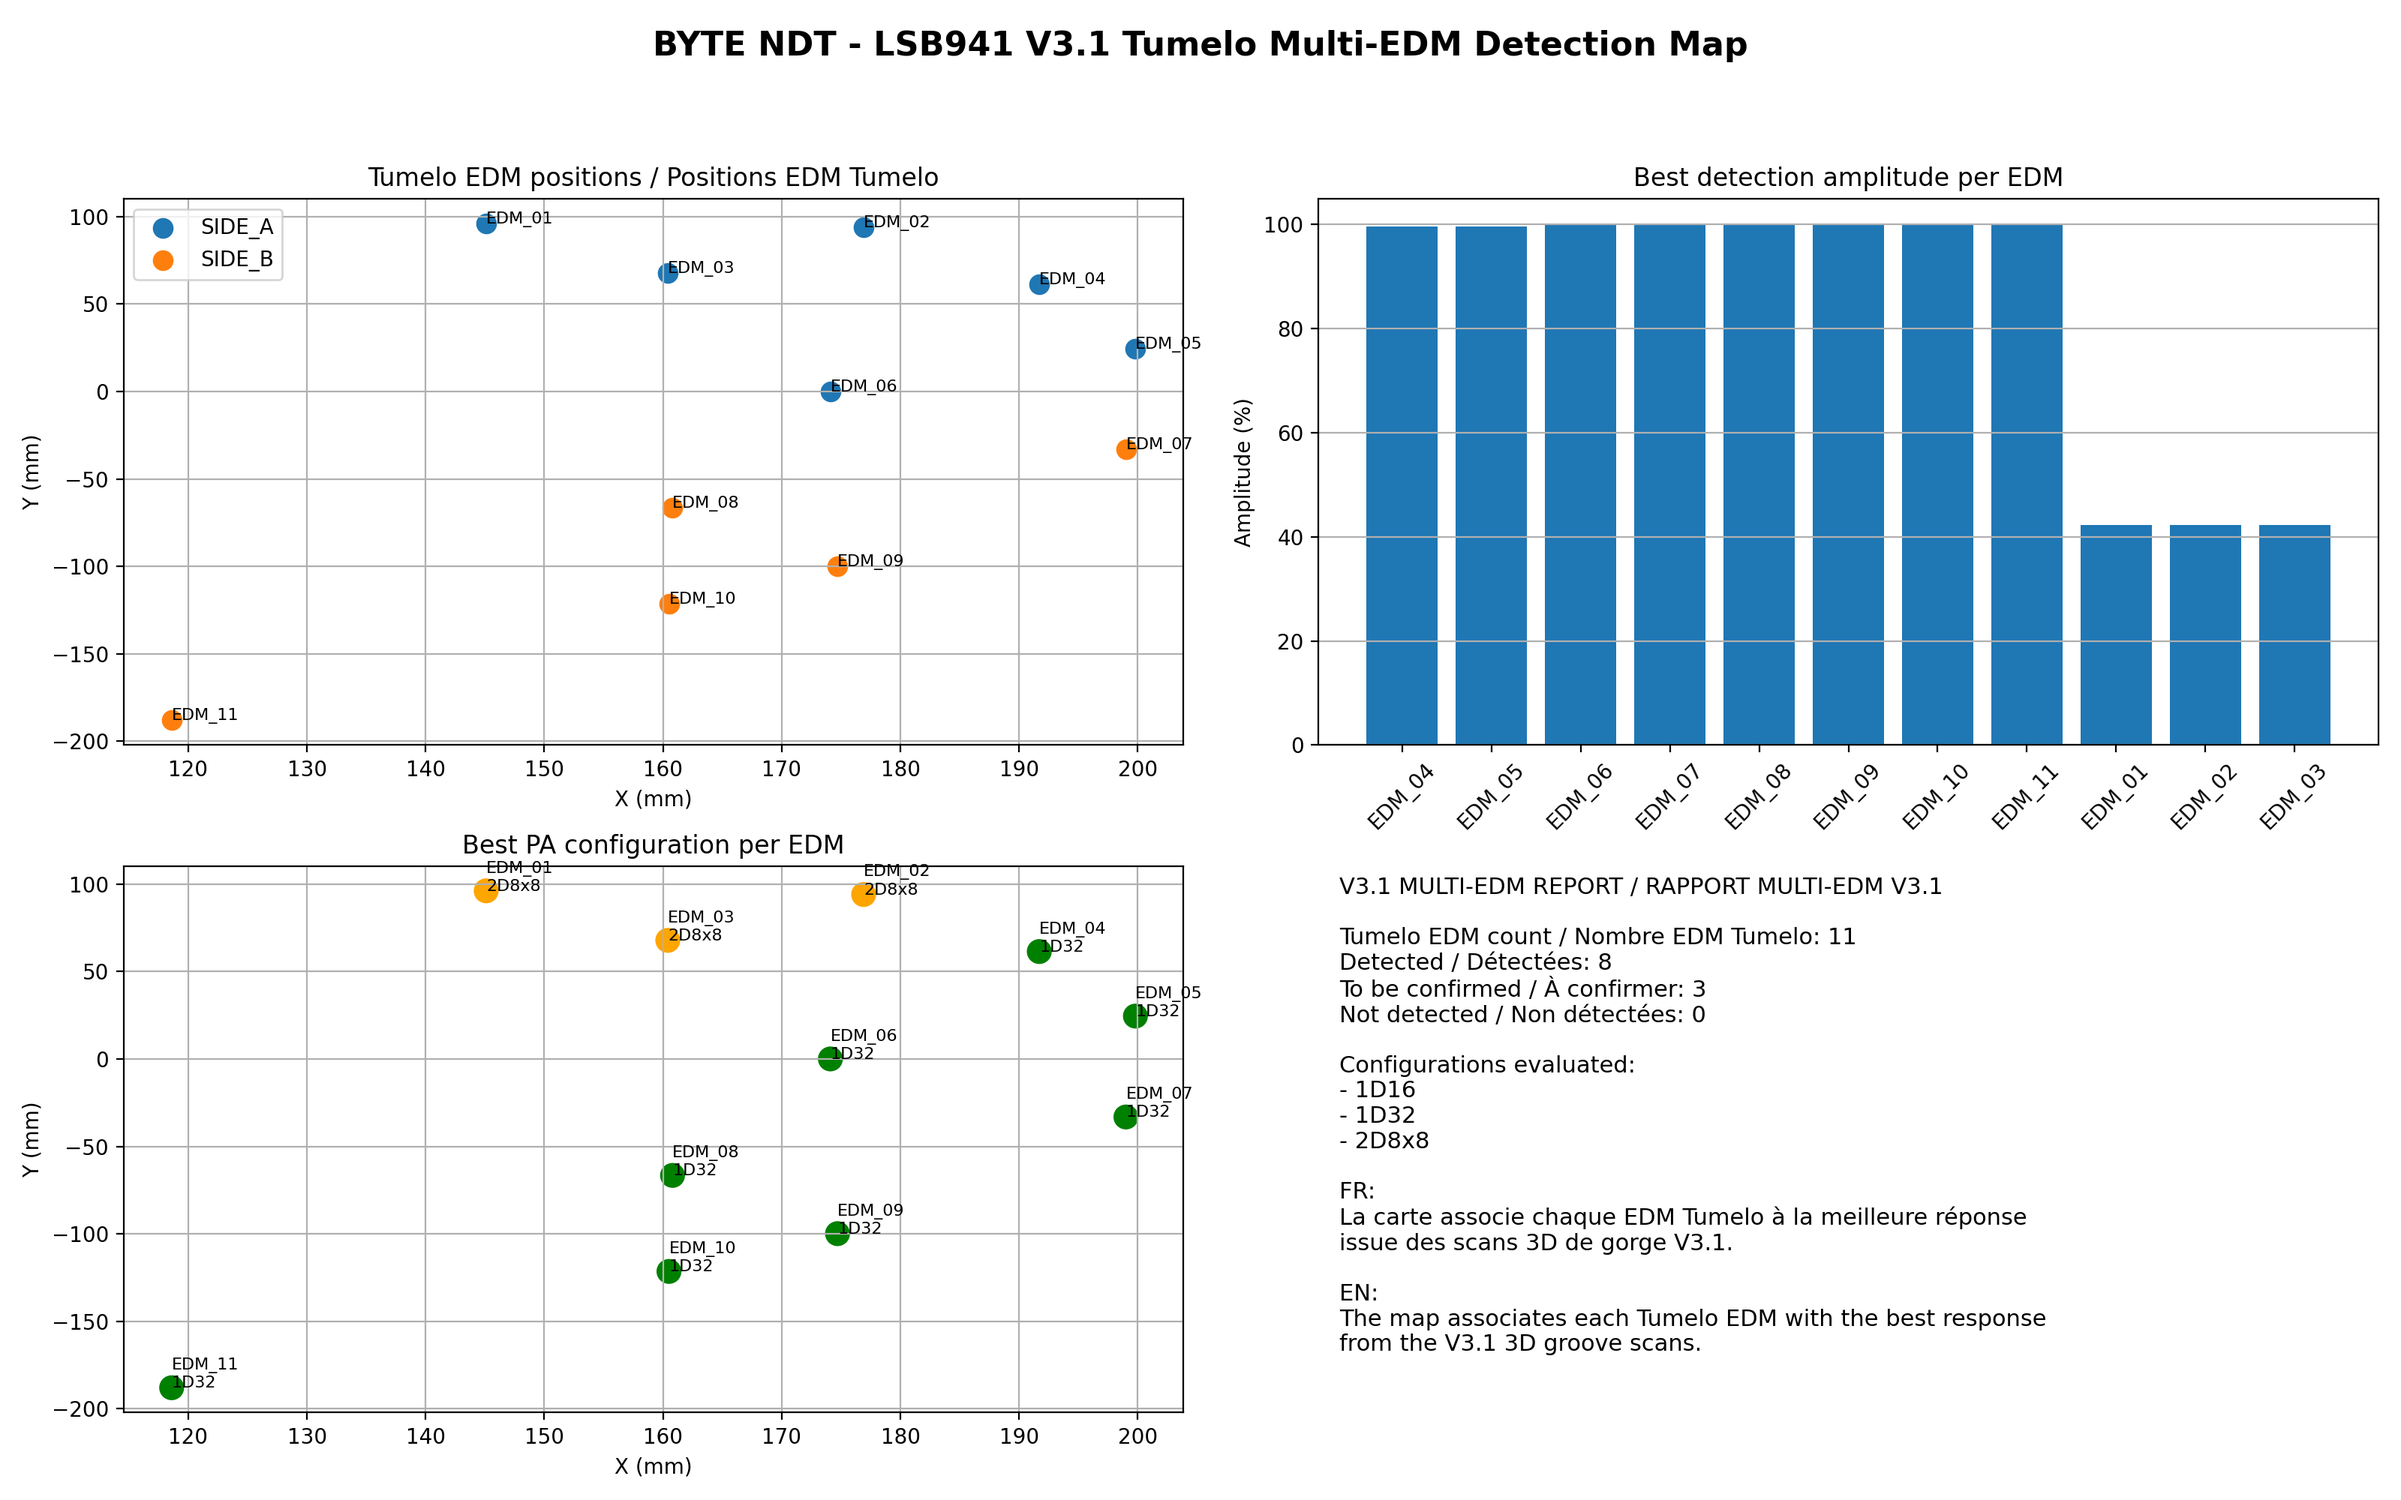
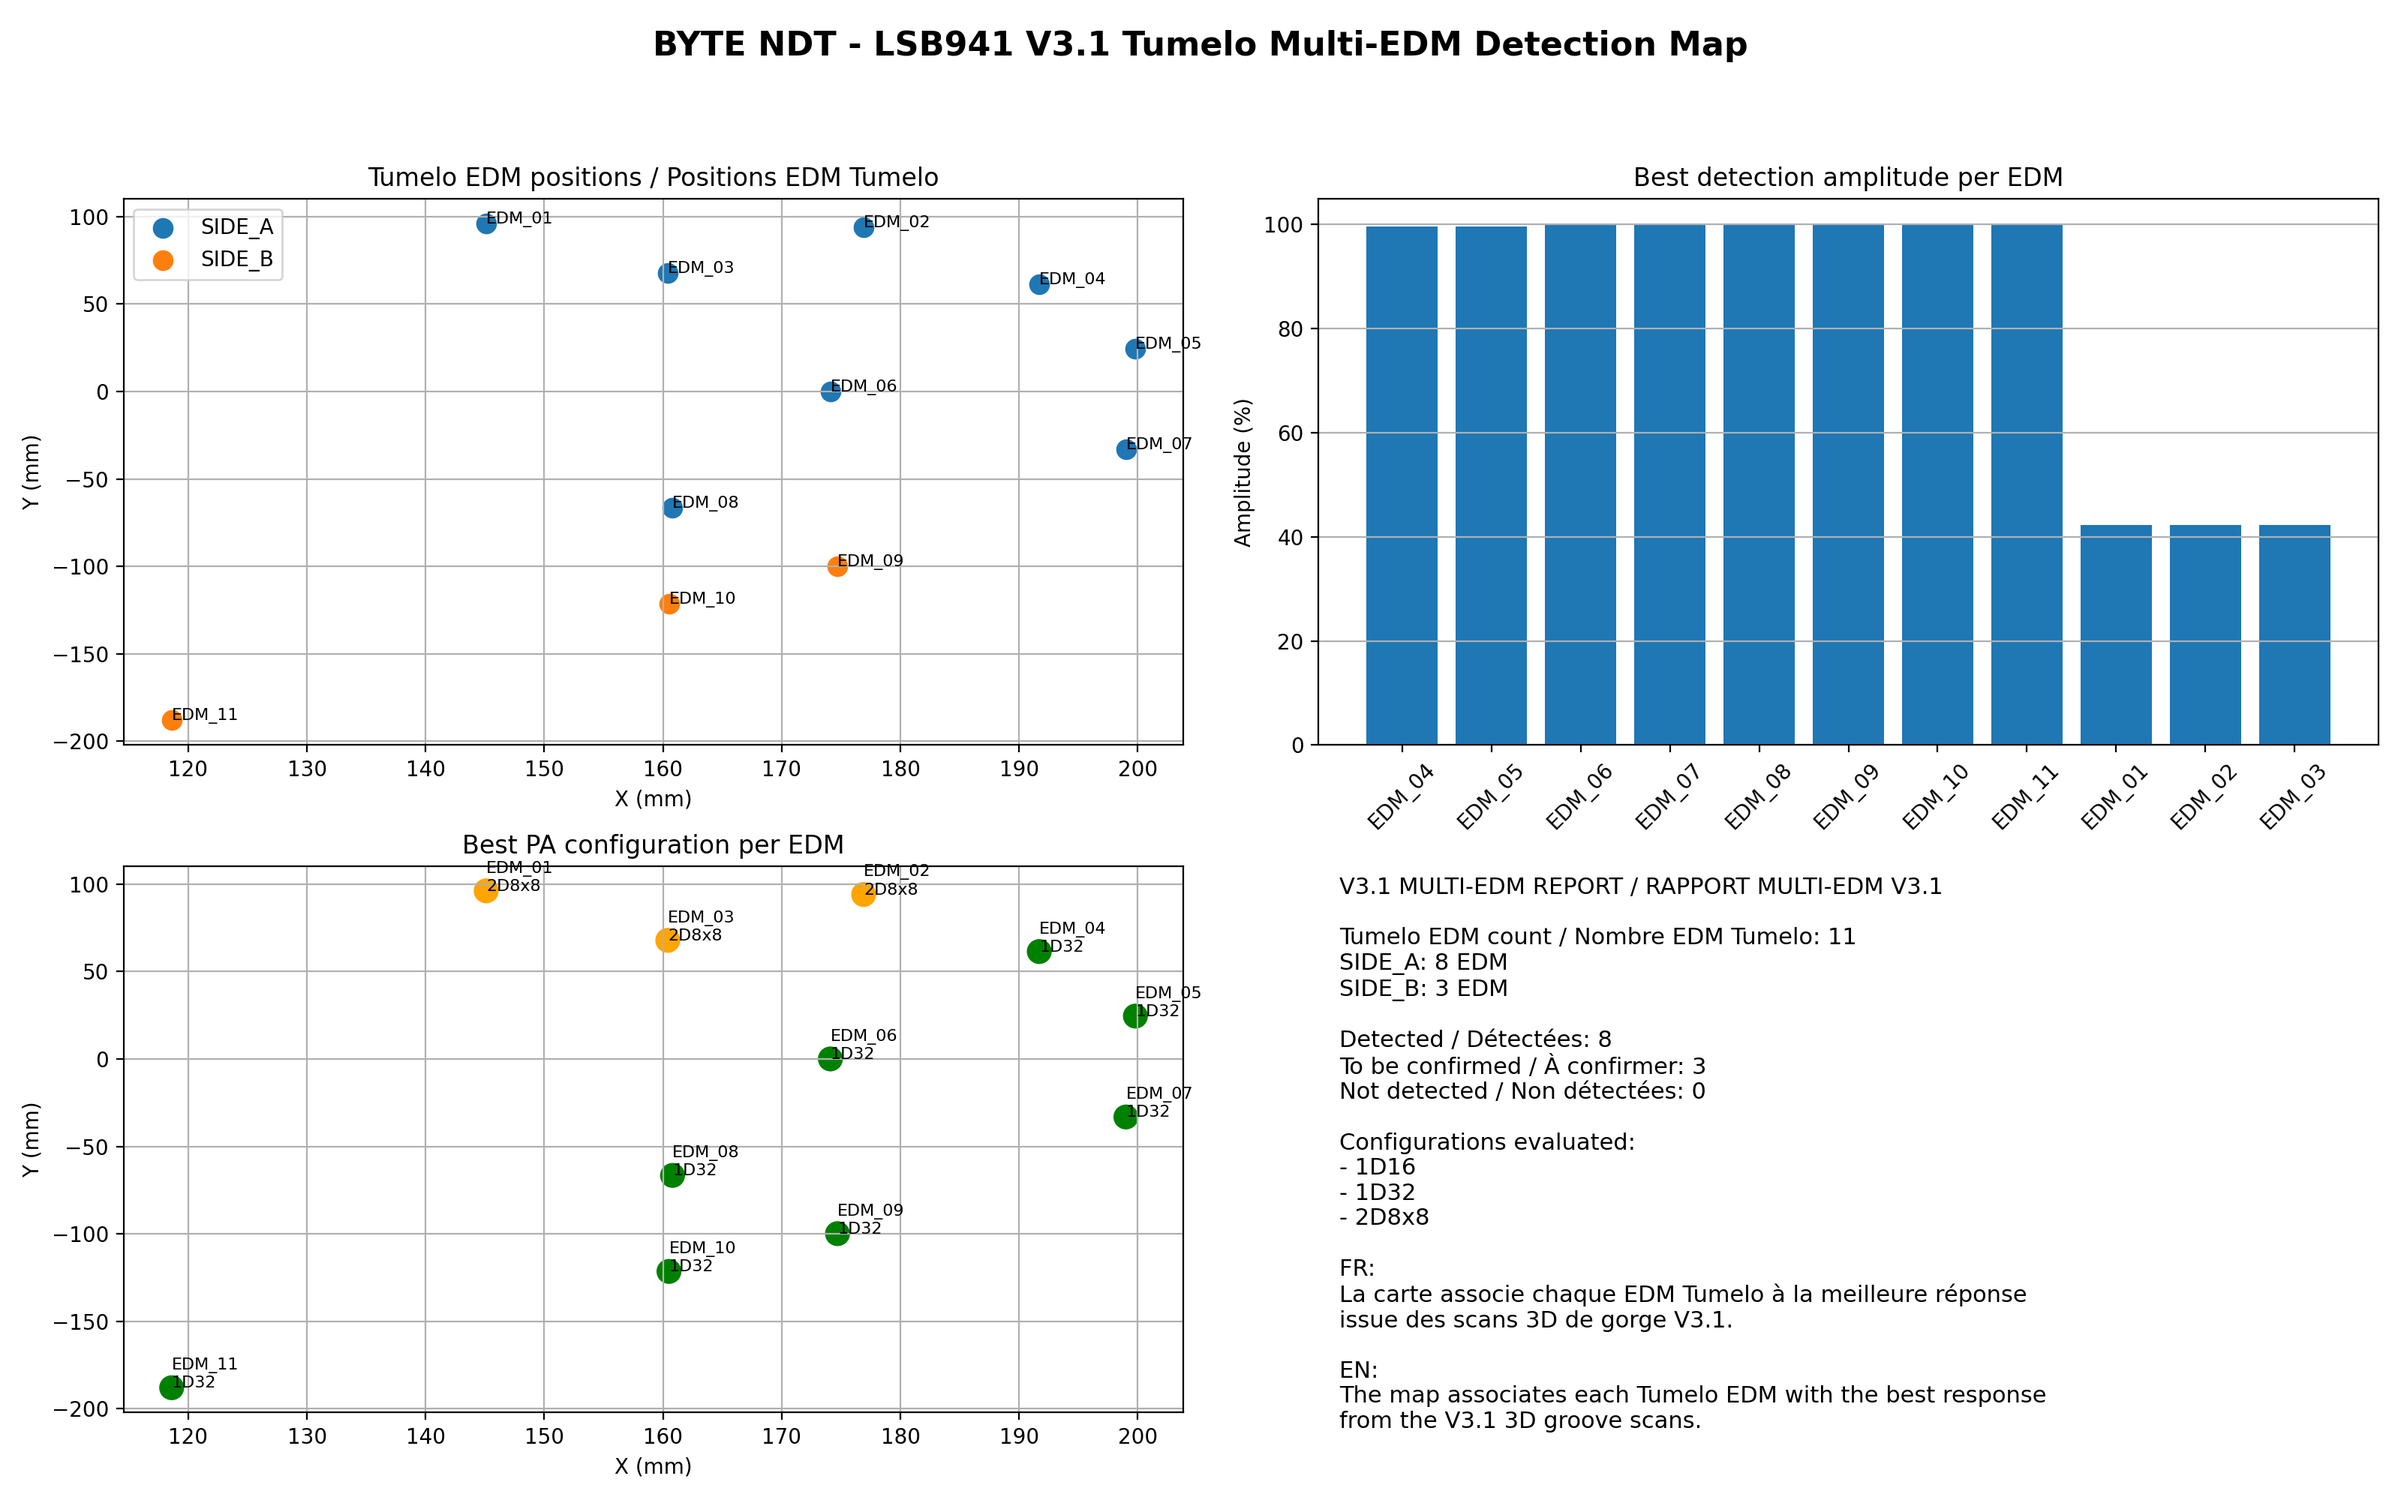
Correct Tumelo EDM side attribution 8 and 3

Changed region(s): [[0.5625, 0.62, 0.8438, 0.961]]

diff --git a/twin_multi_EDM_Tumelo_V31.py b/twin_multi_EDM_Tumelo_V31.py
@@ -2,13 +2,14 @@
 # BYTE NDT - LSB941 TWIN V3.1
 # Tumelo multi-EDM detection report + detection map
 #
-# Input:
-#   01_INPUTS_VALIDATED_GEOMETRY/EDM_Tumelo_transformed.csv
-#   05_3D_SCAN/scan3D_groove_total_1D16.csv
-#   05_3D_SCAN/scan3D_groove_total_1D32.csv
-#   05_3D_SCAN/scan3D_groove_total_2D8x8.csv
+# Reference:
+#   EDM_Tumelo_transformed.csv
 #
-# Output:
+# Validated EDM distribution:
+#   8 EDM on SIDE_A
+#   3 EDM on SIDE_B
+#
+# Outputs:
 #   07_REPORTS/BYTE_NDT_Tumelo_EDM_detection_report_ALL.csv
 #   06_IMAGES/BYTE_NDT_Tumelo_EDM_detection_map.png
 #   08_EXPORT_FOR_STREAMLIT/...
@@ -41,27 +42,34 @@ CONFIGS = ["1D16", "1D32", "2D8x8"]
 def read_edm_tumelo(path: Path) -> pd.DataFrame:
     """
     Reads Tumelo EDM list.
-    Expected format: X;Y;Z with decimal comma or decimal point.
+
+    Expected format:
+        X;Y;Z
+
+    Decimal comma or decimal point accepted.
     No header assumed.
     """
     if not path.exists():
         raise FileNotFoundError(f"Missing EDM Tumelo file: {path}")
 
     rows = []
+
     with open(path, "r", encoding="utf-8-sig") as f:
         for line in f:
             line = line.strip()
+
             if not line:
                 continue
 
-            # allow ; , whitespace, decimal comma
             parts = line.replace(",", ".").replace(";", " ").split()
 
             if len(parts) < 3:
                 continue
 
             try:
-                x, y, z = float(parts[0]), float(parts[1]), float(parts[2])
+                x = float(parts[0])
+                y = float(parts[1])
+                z = float(parts[2])
                 rows.append((x, y, z))
             except ValueError:
                 continue
@@ -70,17 +78,26 @@ def read_edm_tumelo(path: Path) -> pd.DataFrame:
         raise ValueError(f"No valid EDM XYZ points found in {path}")
 
     df = pd.DataFrame(rows, columns=["edm_x", "edm_y", "edm_z"])
-    df.insert(0, "edm_id", [f"EDM_{i+1:02d}" for i in range(len(df))])
+    df.insert(0, "edm_id", [f"EDM_{i + 1:02d}" for i in range(len(df))])
 
-    # Temporary side attribution:
-    # positive/negative Y split. This can be refined after groove validation.
-    y_mid = df["edm_y"].median()
-    df["side"] = np.where(df["edm_y"] >= y_mid, "SIDE_A", "SIDE_B")
+    if len(df) != 11:
+        print(f"WARNING: expected 11 EDM, found {len(df)}")
+
+    # Tumelo validated side attribution:
+    # 8 EDM on first groove/side, 3 EDM on second groove/side.
+    if len(df) == 11:
+        df["side"] = ["SIDE_A"] * 8 + ["SIDE_B"] * 3
+    else:
+        # Fallback if another list is used
+        df["side"] = "SIDE_UNKNOWN"
 
     return df
 
 
 def read_csv_robust(path: Path) -> pd.DataFrame:
+    """
+    Reads CSV with comma, semicolon or whitespace separator.
+    """
     if not path.exists():
         raise FileNotFoundError(f"Missing scan file: {path}")
 
@@ -96,14 +113,22 @@ def read_csv_robust(path: Path) -> pd.DataFrame:
 
 
 def find_col(df: pd.DataFrame, candidates: list[str]) -> str | None:
+    """
+    Finds first matching column from candidate names.
+    """
     lower = {str(c).lower(): c for c in df.columns}
+
     for name in candidates:
         if name.lower() in lower:
             return lower[name.lower()]
+
     return None
 
 
 def load_scan(config: str) -> pd.DataFrame:
+    """
+    Loads V3 scan for one PA configuration.
+    """
     path = SCAN_DIR / f"scan3D_groove_total_{config}.csv"
     df = read_csv_robust(path)
 
@@ -121,6 +146,7 @@ def load_scan(config: str) -> pd.DataFrame:
 
     for standard, candidates in required_candidates.items():
         col = find_col(df, candidates)
+
         if col is not None:
             out[standard] = df[col]
         else:
@@ -133,38 +159,55 @@ def load_scan(config: str) -> pd.DataFrame:
 
     out["config"] = config
 
-    # Numeric conversion
-    for c in ["scan_position_mm", "amplitude_percent", "amplitude_db", "focus_x", "focus_y", "focus_z"]:
-        out[c] = pd.to_numeric(out[c], errors="coerce")
+    for col in [
+        "scan_position_mm",
+        "amplitude_percent",
+        "amplitude_db",
+        "focus_x",
+        "focus_y",
+        "focus_z",
+    ]:
+        out[col] = pd.to_numeric(out[col], errors="coerce")
 
     out = out.dropna(subset=["amplitude_percent"])
+
+    if len(out) == 0:
+        raise ValueError(f"No valid amplitude data found in scan file: {path}")
+
     return out
 
 
-def compute_detection_for_edm(edm_row: pd.Series, scan_df: pd.DataFrame, config: str) -> dict:
+def compute_detection_for_edm(
+    edm_row: pd.Series,
+    scan_df: pd.DataFrame,
+    config: str,
+) -> dict:
     """
-    Associates each EDM with nearest focal/scan response.
+    Associates one EDM with the best scan response.
 
-    Current V3.1 logic:
-    - spatial distance to focus_x/focus_y/focus_z when available
-    - if scan coordinates are incomplete, uses strongest local response
-    - reports amplitude and -6 dB equivalent width
+    V3.1 logic:
+    - use distance from EDM to focal point when focus coordinates exist,
+    - combine proximity and amplitude,
+    - compute local -6 dB length.
     """
+    edm_xyz = np.array(
+        [edm_row["edm_x"], edm_row["edm_y"], edm_row["edm_z"]],
+        dtype=float,
+    )
 
-    edm_xyz = np.array([edm_row["edm_x"], edm_row["edm_y"], edm_row["edm_z"]], dtype=float)
+    focus_ok = scan_df[["focus_x", "focus_y", "focus_z"]].notna().all(axis=1)
 
-    focus_cols_ok = scan_df[["focus_x", "focus_y", "focus_z"]].notna().all(axis=1)
-
-    if focus_cols_ok.any():
-        sub = scan_df.loc[focus_cols_ok].copy()
+    if focus_ok.any():
+        sub = scan_df.loc[focus_ok].copy()
         focus_xyz = sub[["focus_x", "focus_y", "focus_z"]].to_numpy(dtype=float)
+
         dist = np.linalg.norm(focus_xyz - edm_xyz[None, :], axis=1)
 
-        # Combine distance and amplitude: nearest strong response
         amp = sub["amplitude_percent"].to_numpy(dtype=float)
         amp_norm = amp / max(np.nanmax(amp), 1e-12)
 
         score = amp_norm / (1.0 + dist / 10.0)
+
         best_local_idx = int(np.nanargmax(score))
         best = sub.iloc[best_local_idx]
         best_distance = float(dist[best_local_idx])
@@ -178,7 +221,6 @@ def compute_detection_for_edm(edm_row: pd.Series, scan_df: pd.DataFrame, config:
     scan_pos = float(best["scan_position_mm"]) if np.isfinite(best["scan_position_mm"]) else np.nan
     condition = str(best["condition"])
 
-    # -6 dB width based on global scan response near strongest response
     amp_all = scan_df["amplitude_percent"].to_numpy(dtype=float)
     scan_all = scan_df["scan_position_mm"].to_numpy(dtype=float)
 
@@ -225,6 +267,9 @@ def compute_detection_for_edm(edm_row: pd.Series, scan_df: pd.DataFrame, config:
 
 
 def build_multi_edm_report(edm_df: pd.DataFrame) -> pd.DataFrame:
+    """
+    Builds the full multi-EDM report for all PA configurations.
+    """
     all_rows = []
 
     for config in CONFIGS:
@@ -237,9 +282,9 @@ def build_multi_edm_report(edm_df: pd.DataFrame) -> pd.DataFrame:
 
     report = pd.DataFrame(all_rows)
 
-    # Best config per EDM
     report["rank_amp"] = report.groupby("edm_id")["max_amplitude_percent"].rank(
-        method="first", ascending=False
+        method="first",
+        ascending=False,
     )
 
     report["best_config_for_edm"] = np.where(report["rank_amp"] == 1, "YES", "NO")
@@ -249,18 +294,27 @@ def build_multi_edm_report(edm_df: pd.DataFrame) -> pd.DataFrame:
 
 
 def plot_multi_edm_map(edm_df: pd.DataFrame, report: pd.DataFrame) -> Path:
+    """
+    Generates multi-EDM detection map.
+    """
     out_img = IMG_DIR / "BYTE_NDT_Tumelo_EDM_detection_map.png"
 
     best = report[report["best_config_for_edm"] == "YES"].copy()
 
     fig = plt.figure(figsize=(16, 10))
-    fig.suptitle("BYTE NDT - LSB941 V3.1 Tumelo Multi-EDM Detection Map", fontsize=16, fontweight="bold")
+    fig.suptitle(
+        "BYTE NDT - LSB941 V3.1 Tumelo Multi-EDM Detection Map",
+        fontsize=16,
+        fontweight="bold",
+    )
 
     ax1 = fig.add_subplot(2, 2, 1)
-    for side, g in edm_df.groupby("side"):
-        ax1.scatter(g["edm_x"], g["edm_y"], label=side, s=80)
-        for _, r in g.iterrows():
-            ax1.text(r["edm_x"], r["edm_y"], r["edm_id"], fontsize=8)
+
+    for side, group in edm_df.groupby("side"):
+        ax1.scatter(group["edm_x"], group["edm_y"], label=side, s=80)
+
+        for _, row in group.iterrows():
+            ax1.text(row["edm_x"], row["edm_y"], row["edm_id"], fontsize=8)
 
     ax1.set_title("Tumelo EDM positions / Positions EDM Tumelo")
     ax1.set_xlabel("X (mm)")
@@ -276,18 +330,25 @@ def plot_multi_edm_map(edm_df: pd.DataFrame, report: pd.DataFrame) -> Path:
     ax2.grid(True, axis="y")
 
     ax3 = fig.add_subplot(2, 2, 3)
+
     colors = []
-    for s in best["status"]:
-        if s == "DETECTED":
+    for status in best["status"]:
+        if status == "DETECTED":
             colors.append("green")
-        elif s == "TO_BE_CONFIRMED":
+        elif status == "TO_BE_CONFIRMED":
             colors.append("orange")
         else:
             colors.append("red")
 
     ax3.scatter(best["edm_x"], best["edm_y"], c=colors, s=120)
-    for _, r in best.iterrows():
-        ax3.text(r["edm_x"], r["edm_y"], f"{r['edm_id']}\n{r['config']}", fontsize=8)
+
+    for _, row in best.iterrows():
+        ax3.text(
+            row["edm_x"],
+            row["edm_y"],
+            f"{row['edm_id']}\n{row['config']}",
+            fontsize=8,
+        )
 
     ax3.set_title("Best PA configuration per EDM")
     ax3.set_xlabel("X (mm)")
@@ -296,14 +357,20 @@ def plot_multi_edm_map(edm_df: pd.DataFrame, report: pd.DataFrame) -> Path:
 
     ax4 = fig.add_subplot(2, 2, 4)
     ax4.axis("off")
+
     n_edm = edm_df["edm_id"].nunique()
-    n_detected = (best["status"] == "DETECTED").sum()
-    n_confirm = (best["status"] == "TO_BE_CONFIRMED").sum()
-    n_not = (best["status"] == "NOT_DETECTED").sum()
+    n_side_a = int((edm_df["side"] == "SIDE_A").sum())
+    n_side_b = int((edm_df["side"] == "SIDE_B").sum())
+
+    n_detected = int((best["status"] == "DETECTED").sum())
+    n_confirm = int((best["status"] == "TO_BE_CONFIRMED").sum())
+    n_not = int((best["status"] == "NOT_DETECTED").sum())
 
     text = (
         "V3.1 MULTI-EDM REPORT / RAPPORT MULTI-EDM V3.1\n\n"
         f"Tumelo EDM count / Nombre EDM Tumelo: {n_edm}\n"
+        f"SIDE_A: {n_side_a} EDM\n"
+        f"SIDE_B: {n_side_b} EDM\n\n"
         f"Detected / Détectées: {n_detected}\n"
         f"To be confirmed / À confirmer: {n_confirm}\n"
         f"Not detected / Non détectées: {n_not}\n\n"
@@ -318,6 +385,7 @@ def plot_multi_edm_map(edm_df: pd.DataFrame, report: pd.DataFrame) -> Path:
         "The map associates each Tumelo EDM with the best response\n"
         "from the V3.1 3D groove scans."
     )
+
     ax4.text(0.02, 0.98, text, va="top", fontsize=11)
 
     plt.tight_layout(rect=[0, 0, 1, 0.94])
@@ -330,10 +398,10 @@ def plot_multi_edm_map(edm_df: pd.DataFrame, report: pd.DataFrame) -> Path:
     return out_img
 
 
-def main():
+def main() -> None:
     print("BYTE NDT - V3.1 Tumelo Multi-EDM Detection")
-
     print(f"Reading EDM file: {EDM_FILE}")
+
     edm_df = read_edm_tumelo(EDM_FILE)
 
     print(f"Tumelo EDM count: {len(edm_df)}")
